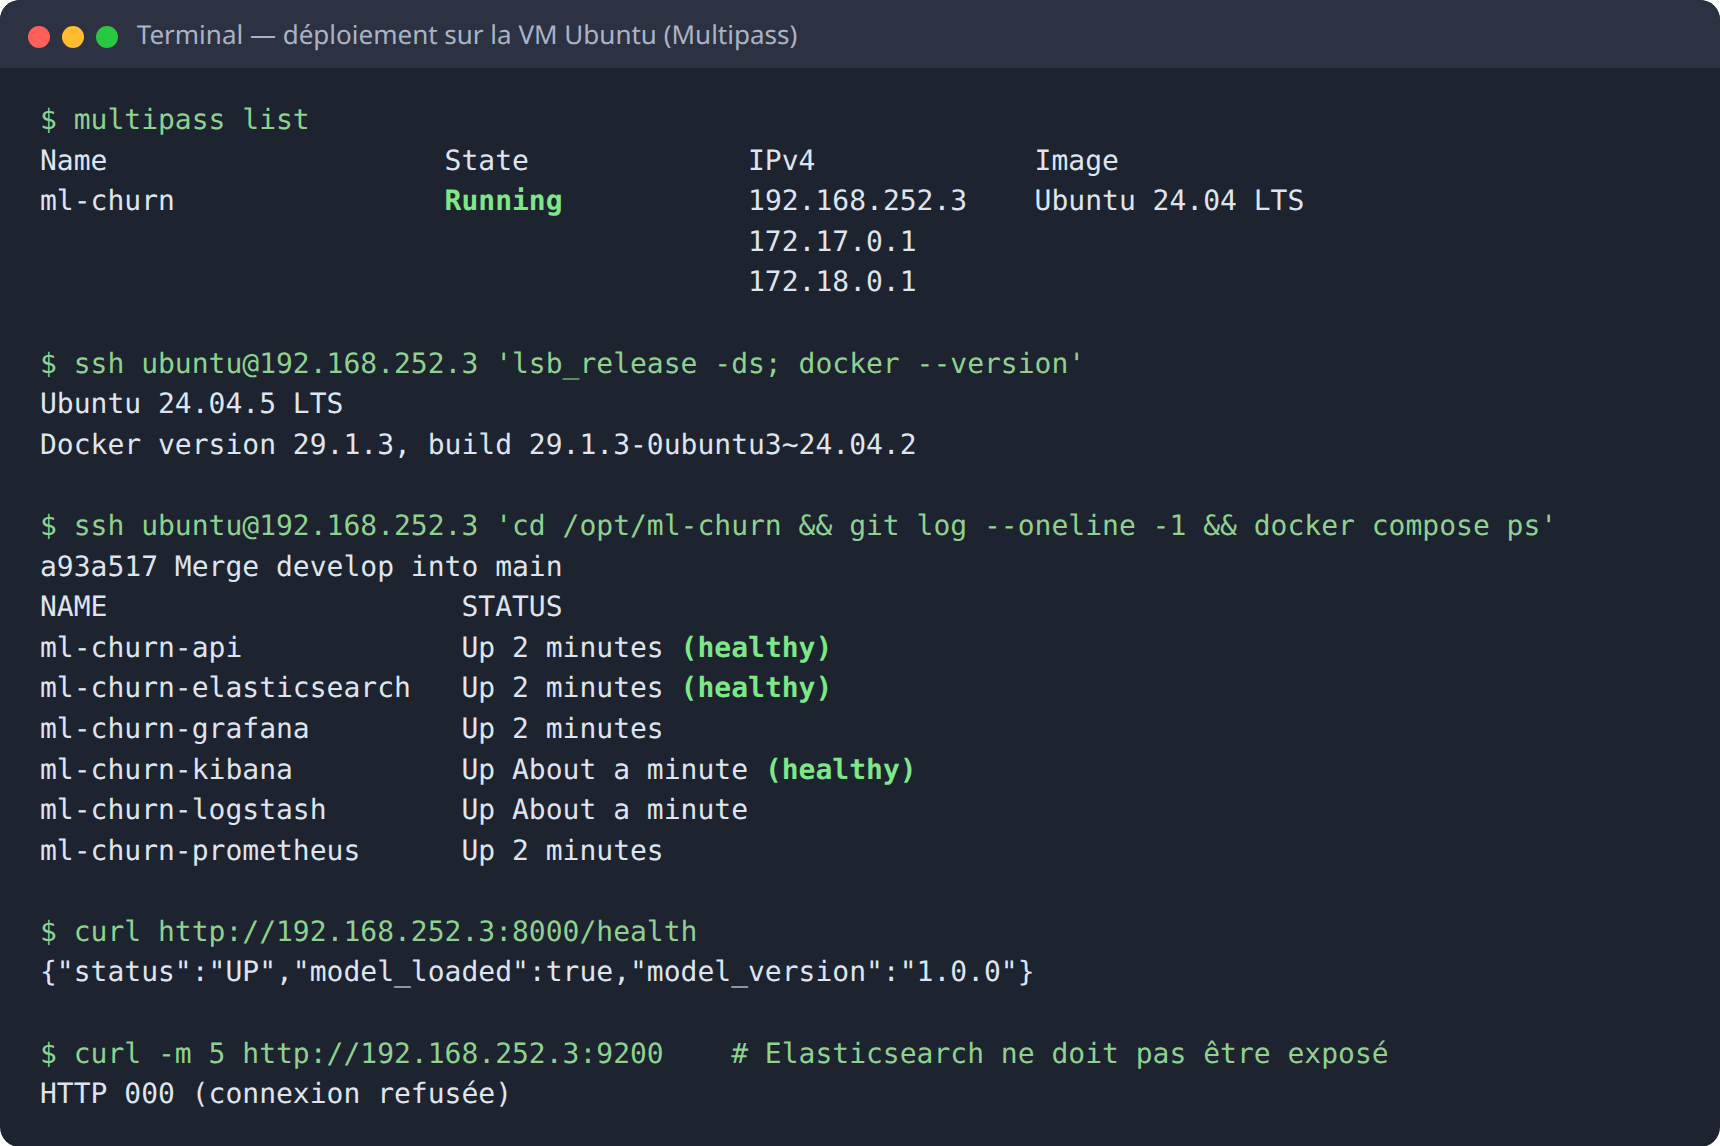
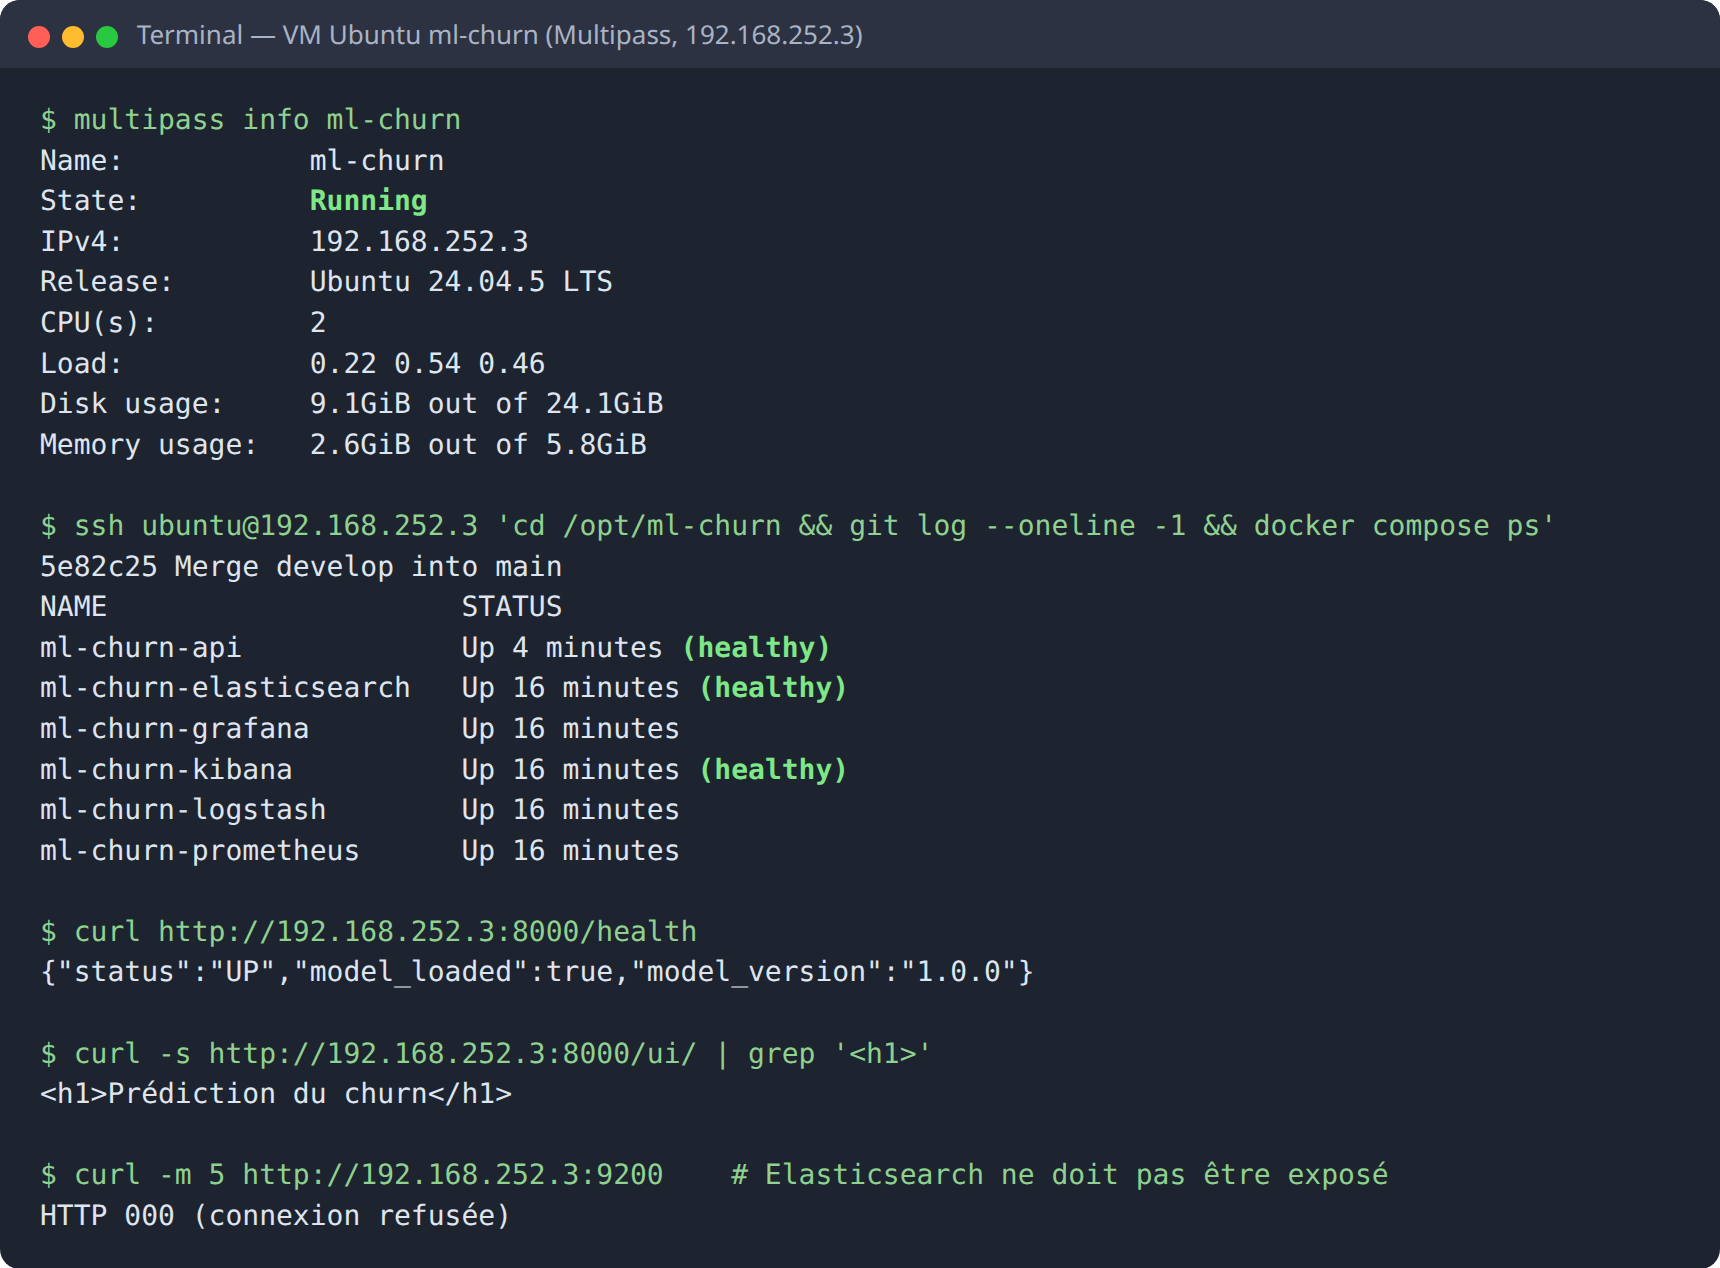
Captures du déploiement sur la VM dans le README

diff --git a/README.md b/README.md
@@ -325,6 +325,22 @@ on peut copier les images déjà présentes sur la machine hôte :
 > (et `multipassd`) dans Réglages Système → Confidentialité et sécurité → Réseau local, puis relancer
 > l'application.
 
+### Captures du déploiement réalisé
+
+VM Ubuntu 24.04 créée avec Multipass (2 vCPU, 6 Go de RAM), adresse `192.168.252.3` :
+
+![Services démarrés dans la VM](docs/img/term_vm.png)
+
+Appel de `/predict` depuis le Swagger servi par la VM (la « Request URL » pointe vers la VM) :
+
+![Swagger servi par la VM](docs/img/swagger_vm.png)
+
+Interface web servie par la VM (`http://192.168.252.3:8000/ui/`) et dashboard Grafana de la VM :
+
+![Interface servie par la VM](docs/img/interface_vm.png)
+
+![Grafana servi par la VM](docs/img/grafana_vm.png)
+
 ### VM cloud (Oracle Cloud, Azure, AWS…)
 
 Créer une Ubuntu 24.04 (≥ 2 vCPU, ≥ 6 Go de RAM) en collant `deploy/cloud-init.yaml` dans le champ
